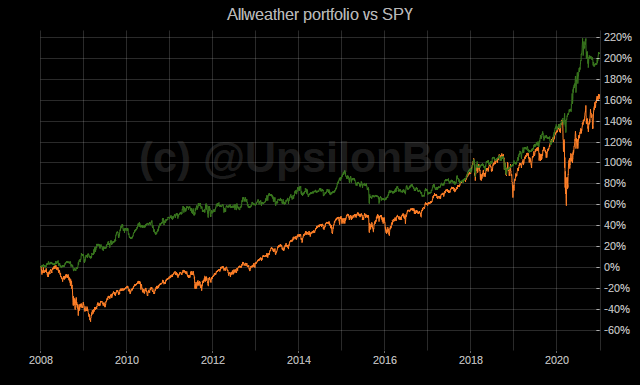
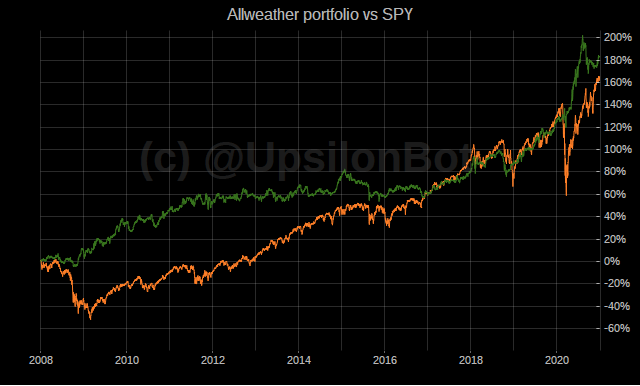
autoupdate 2021-01-04-18:36:36

Changed region(s): [[0.0625, 0.0933, 1.0, 0.8705]]

diff --git a/tester/tester.py b/tester/tester.py
@@ -72,7 +72,7 @@ def portfolio_tester(init_cap=10000, port_id='parking', allocator_data_interval=
         portfolio_args['cor_linkage_'] = 'ward'
         portfolio_args['cor_risk_measure_'] = 'variance'
         portfolio_args['cor_graphs_show'] = False
-        portfolio_args['cor_selector_type'] = 0
+        portfolio_args['cor_selector_type'] = 2
         portfolio_args['cor_selector_adjustment'] = False
         # ********************* Parking sat *********************
         portfolio_args['sat_alloctor_start_date'] = alloctor_start_date
@@ -87,8 +87,8 @@ def portfolio_tester(init_cap=10000, port_id='parking', allocator_data_interval=
         portfolio_args['sat_linkage_'] = 'ward'
         portfolio_args['sat_risk_measure_'] = 'variance'
         portfolio_args['sat_graphs_show'] = False
-        portfolio_args['cor_selector_type'] = 1
-        portfolio_args['cor_selector_adjustment'] = False
+        portfolio_args['sat_selector_type'] = 1
+        portfolio_args['sat_selector_adjustment'] = False
         compare_ticker = "TLT"
 
     elif port_id == 'allweather':
@@ -108,7 +108,7 @@ def portfolio_tester(init_cap=10000, port_id='parking', allocator_data_interval=
         portfolio_args['cor_linkage_'] = 'ward'
         portfolio_args['cor_risk_measure_'] = 'variance'
         portfolio_args['cor_graphs_show'] = False
-        portfolio_args['cor_selector_type'] = 0
+        portfolio_args['cor_selector_type'] = 2
         portfolio_args['cor_selector_adjustment'] = False
         # ********************* Allweather sat *********************
         portfolio_args['sat_alloctor_start_date'] = alloctor_start_date
@@ -123,8 +123,8 @@ def portfolio_tester(init_cap=10000, port_id='parking', allocator_data_interval=
         portfolio_args['sat_linkage_'] = 'ward'
         portfolio_args['sat_risk_measure_'] = 'variance'
         portfolio_args['sat_graphs_show'] = False
-        portfolio_args['cor_selector_type'] = 1
-        portfolio_args['cor_selector_adjustment'] = False
+        portfolio_args['sat_selector_type'] = 1
+        portfolio_args['sat_selector_adjustment'] = False
         compare_ticker = "SPY"
 
     elif port_id == 'balanced':
@@ -159,8 +159,8 @@ def portfolio_tester(init_cap=10000, port_id='parking', allocator_data_interval=
         portfolio_args['sat_linkage_'] = 'ward'
         portfolio_args['sat_risk_measure_'] = 'variance'
         portfolio_args['sat_graphs_show'] = False
-        portfolio_args['cor_selector_type'] = 1
-        portfolio_args['cor_selector_adjustment'] = False
+        portfolio_args['sat_selector_type'] = 1
+        portfolio_args['sat_selector_adjustment'] = False
         compare_ticker = "QQQ"
     elif port_id == 'aggressive':
         # ======================================== A G G R E S S I V E ========================================
@@ -194,8 +194,8 @@ def portfolio_tester(init_cap=10000, port_id='parking', allocator_data_interval=
         portfolio_args['sat_linkage_'] = 'ward'
         portfolio_args['sat_risk_measure_'] = 'variance'
         portfolio_args['sat_graphs_show'] = False
-        portfolio_args['cor_selector_type'] = 1
-        portfolio_args['cor_selector_adjustment'] = False
+        portfolio_args['sat_selector_type'] = 1
+        portfolio_args['sat_selector_adjustment'] = False
         compare_ticker = "QQQ"
     elif port_id == 'leveraged':
         # ======================================== L E V E R A G E D ========================================
@@ -229,8 +229,8 @@ def portfolio_tester(init_cap=10000, port_id='parking', allocator_data_interval=
         portfolio_args['sat_linkage_'] = 'ward'
         portfolio_args['sat_risk_measure_'] = 'variance'
         portfolio_args['sat_graphs_show'] = False
-        portfolio_args['cor_selector_type'] = 1
-        portfolio_args['cor_selector_adjustment'] = False
+        portfolio_args['sat_selector_type'] = 1
+        portfolio_args['sat_selector_adjustment'] = False
         compare_ticker = "QQQ"
 
     weights = calc_portfolio(portfolio_args)

diff --git a/quotes/portfolios/rp_portfolio.py b/quotes/portfolios/rp_portfolio.py
@@ -195,8 +195,8 @@ class RiskParityAllocator:
                 performance_df[col] = mom
             elif self.selector_type == 2:
                 nom = ((df[col].iloc[-1] - df[col].iloc[0]) / df[col].iloc[0])
-                denom = ((df[col].iloc[-1] + df[col].iloc[0]) / 2).fillna(0.0001)
-                mom_2 = ((nom / denom)*100).ewm().mean()
+                denom = ((df[col].iloc[-1] + df[col].iloc[0]) / 2)
+                mom_2 = ((nom / denom)*100).mean()
                 performance_df[col] = mom_2
 
         performance_df.dropna(inplace=True)

diff --git a/quotes/portfolios/portfolios_calc.py b/quotes/portfolios/portfolios_calc.py
@@ -24,7 +24,6 @@ def calc_portfolio(portfolio_args):
                                  selector_type=portfolio_args['cor_selector_type'],
                                  std_adj=portfolio_args['cor_selector_adjustment'],
                                  )
-    print(cor_rp.selector_type)
     cor_tickers = []
     cor_tickers = cor_rp.selector()
     cor_list = get_closes_by_ticker_list(cor_tickers,
